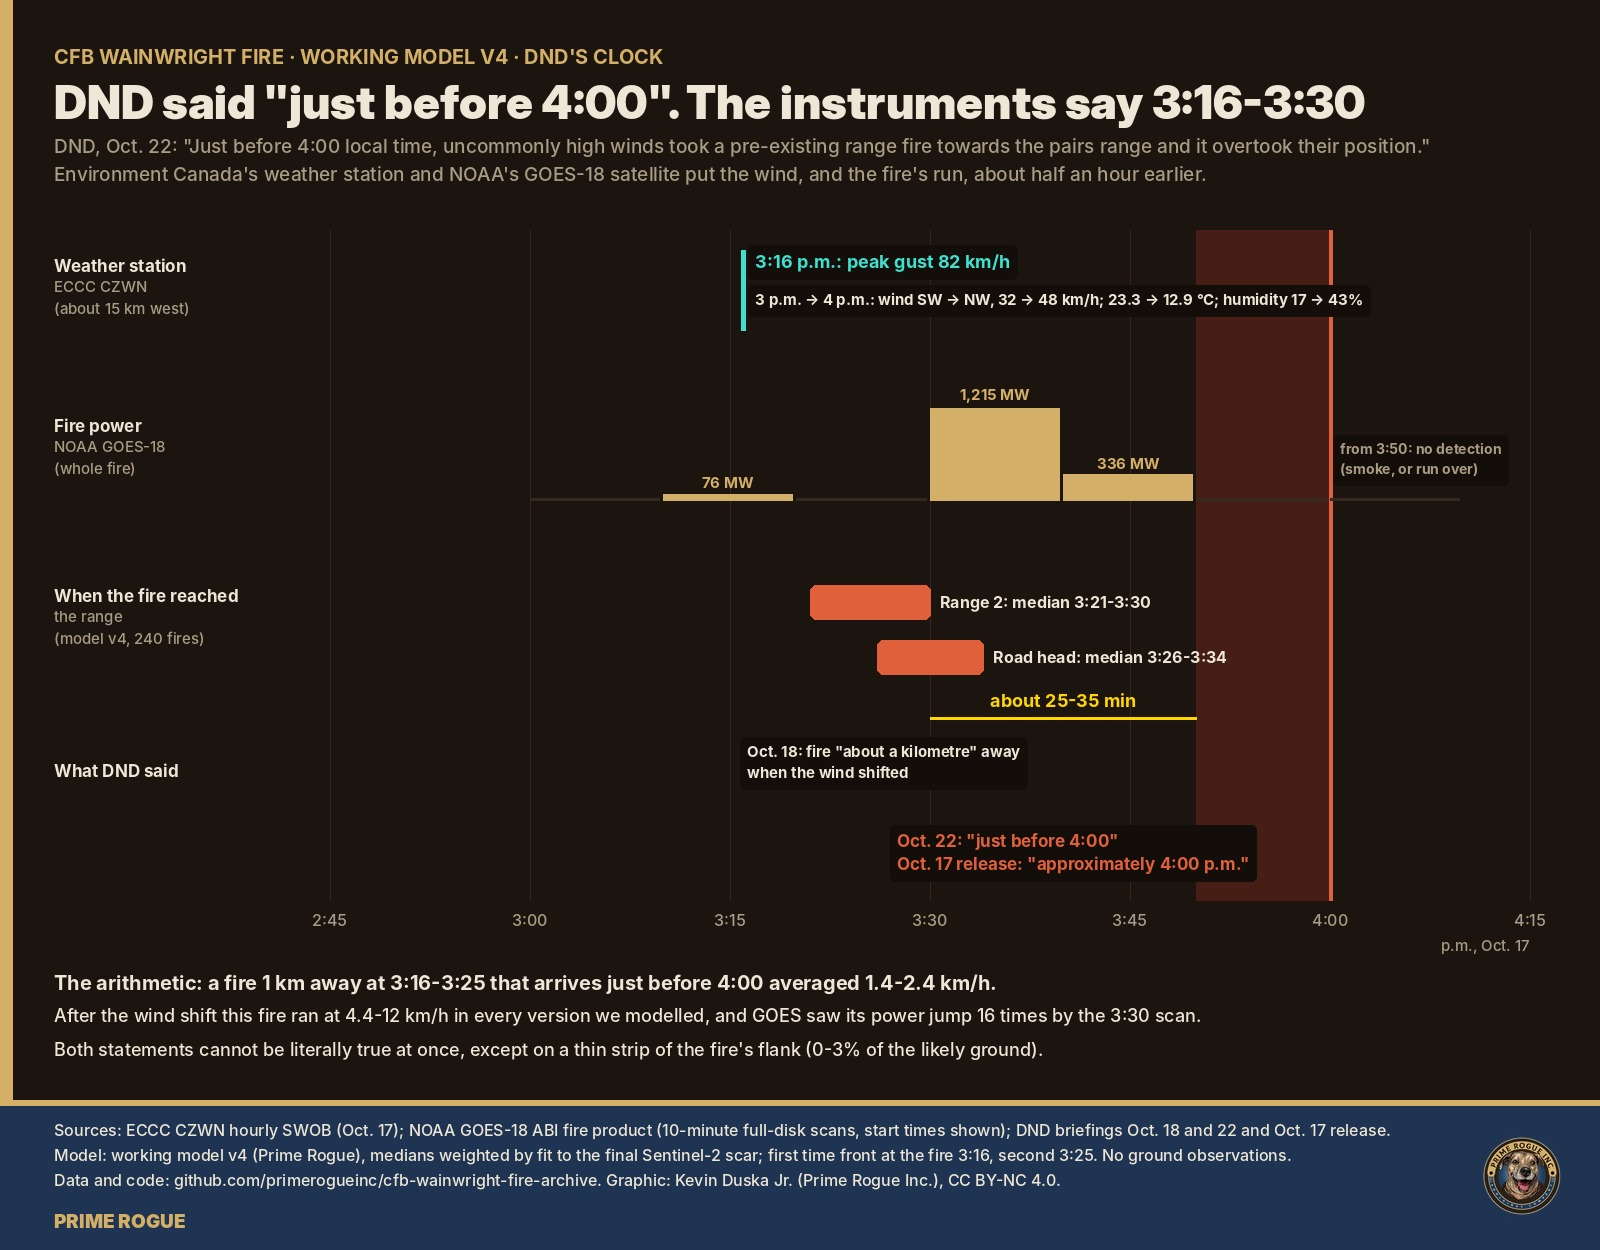
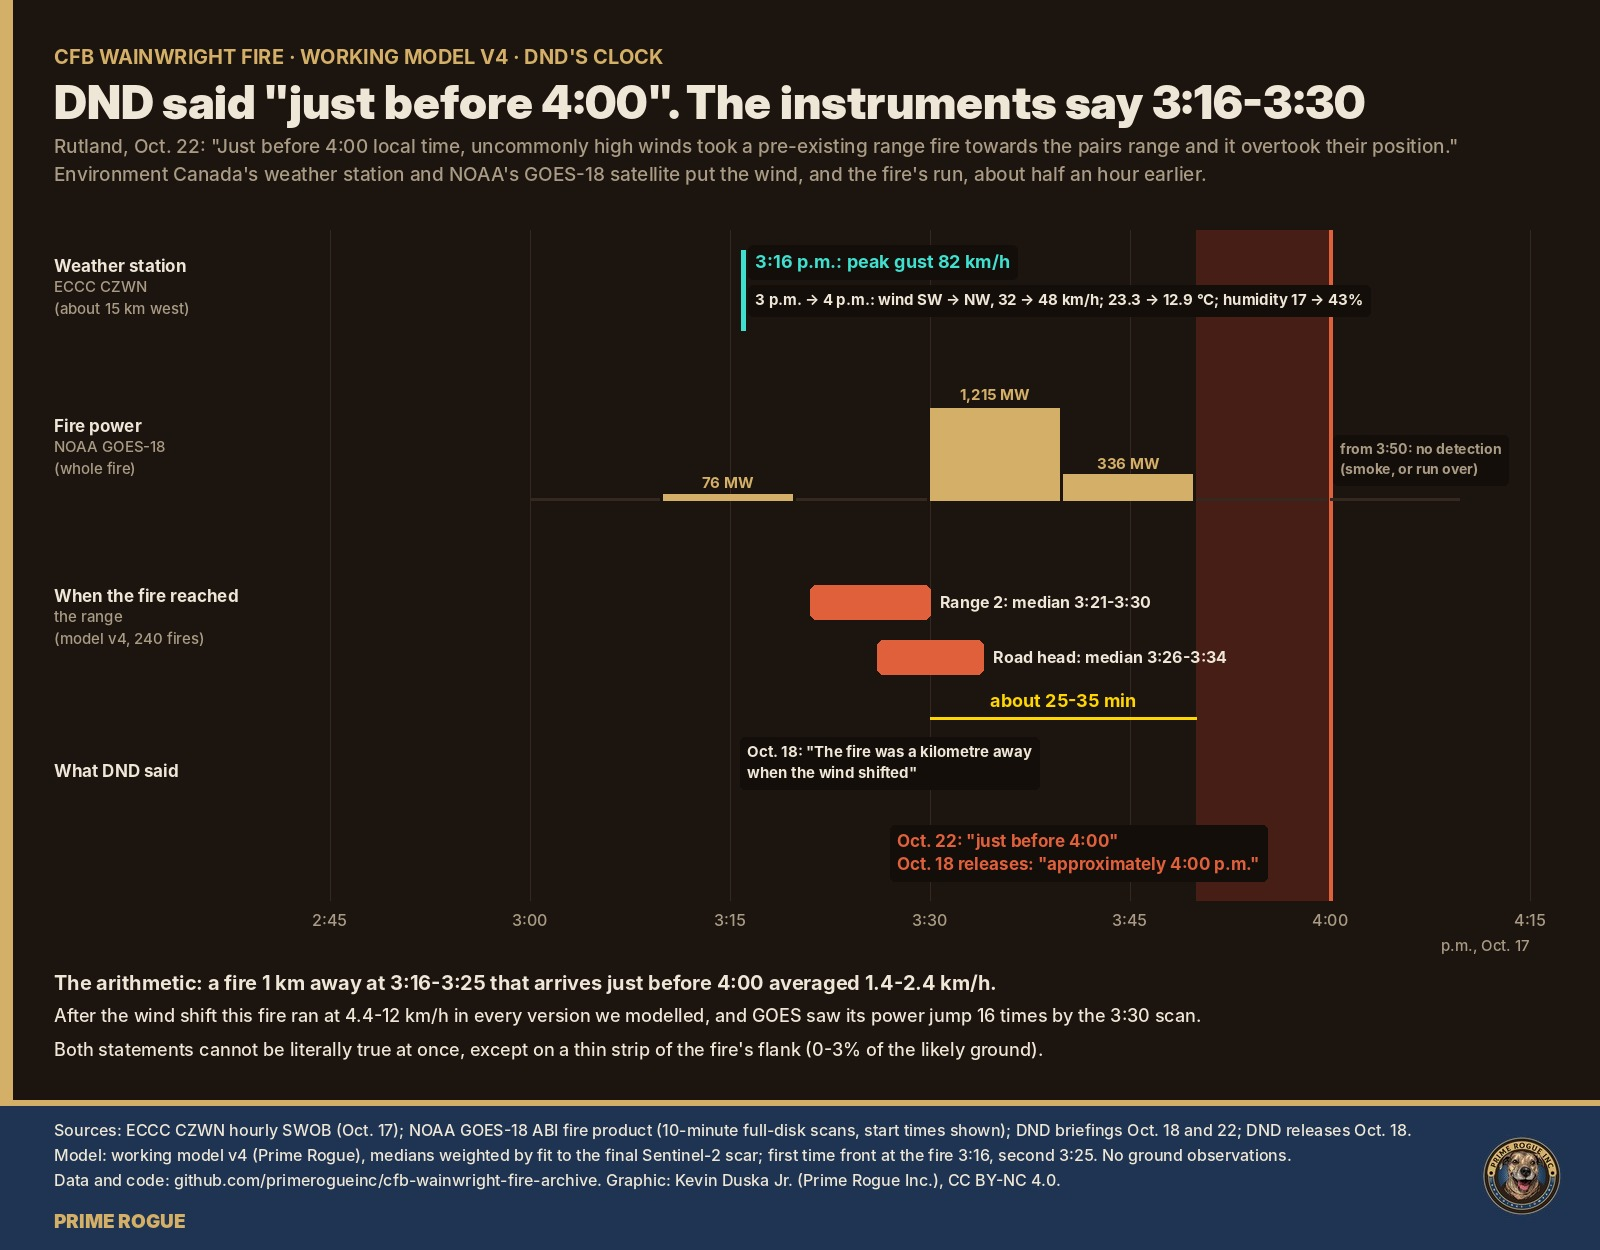
Working model v4: fact-check corrections (quotes, dates, attributions) in notes, ACH and graphics
Claude-Session: https://claude.ai/code/session_012q8DP5dH322QPmsftUvE6c

diff --git a/scripts/maps/g34_dnd_clock.py b/scripts/maps/g34_dnd_clock.py
@@ -5,7 +5,7 @@ from v4fig import *
 W, H = 1600, 1250
 im, d = canvas(W, H, "CFB WAINWRIGHT FIRE · WORKING MODEL V4 · DND'S CLOCK",
                "DND said \"just before 4:00\". The instruments say 3:16-3:30",
-               "DND, Oct. 22: \"Just before 4:00 local time, uncommonly high winds took a pre-existing range fire towards the pairs range and it overtook their position.\"\n"
+               "Rutland, Oct. 22: \"Just before 4:00 local time, uncommonly high winds took a pre-existing range fire towards the pairs range and it overtook their position.\"\n"
                "Environment Canada's weather station and NOAA's GOES-18 satellite put the wind, and the fire's run, about half an hour earlier.")
 X0, X1, T0, T1 = 330, W - 70, 14 * 60 + 45, 16 * 60 + 15
 tx = lambda h, m: X0 + (h * 60 + m - T0) / (T1 - T0) * (X1 - X0)
@@ -37,8 +37,8 @@ for nm, a, b, y in (("Range 2", (15, 21), (15, 30), 585), ("Road head", (15, 26)
     xa_, xb_ = tx(*a), tx(*b); d.rounded_rectangle([xa_, y, xb_, y + 34], radius=6, fill=RED)
     d.text((xb_ + 10, y + 17), f"{nm}: median {a[0]-12}:{a[1]:02d}-{b[0]-12}:{b[1]:02d}", font=B(16), fill=CREAM, anchor="lm")
 # DND statements
-label(d, (tx(15, 16) + 4, 742), "Oct. 18: fire \"about a kilometre\" away\nwhen the wind shifted", col=CREAM, size=15)
-label(d, (tx(15, 50) - 300, 830), "Oct. 22: \"just before 4:00\"\nOct. 17 release: \"approximately 4:00 p.m.\"", col=RED, size=17)
+label(d, (tx(15, 16) + 4, 742), "Oct. 18: \"The fire was a kilometre away\nwhen the wind shifted\"", col=CREAM, size=15)
+label(d, (tx(15, 50) - 300, 830), "Oct. 22: \"just before 4:00\"\nOct. 18 releases: \"approximately 4:00 p.m.\"", col=RED, size=17)
 d.text(((tx(15, 30) + tx(15, 50)) / 2, 700), "about 25-35 min", font=B(18), fill=YEL, anchor="mm")
 d.line([(tx(15, 30), 718), (tx(15, 50), 718)], fill=YEL, width=3)
 # bottom text
@@ -47,7 +47,7 @@ for l, f, c in (("The arithmetic: a fire 1 km away at 3:16-3:25 that arrives jus
                 ("After the wind shift this fire ran at 4.4-12 km/h in every version we modelled, and GOES saw its power jump 16 times by the 3:30 scan.", M(18), CREAM),
                 ("Both statements cannot be literally true at once, except on a thin strip of the fire's flank (0-3% of the likely ground).", M(18), CREAM)):
     d.text((54, y), l, font=f, fill=c); y += 34
-footer(im, ["Sources: ECCC CZWN hourly SWOB (Oct. 17); NOAA GOES-18 ABI fire product (10-minute full-disk scans, start times shown); DND briefings Oct. 18 and 22 and Oct. 17 release.",
+footer(im, ["Sources: ECCC CZWN hourly SWOB (Oct. 17); NOAA GOES-18 ABI fire product (10-minute full-disk scans, start times shown); DND briefings Oct. 18 and 22; DND releases Oct. 18.",
             "Model: working model v4 (Prime Rogue), medians weighted by fit to the final Sentinel-2 scar; first time front at the fire 3:16, second 3:25. No ground observations.",
             SRC], fh=150)
 im.convert("RGB").save(OUTD + "cfb-wainwright-dnd-clock.jpg", quality=92); print("ok")

diff --git a/scripts/maps/g32_ach.py b/scripts/maps/g32_ach.py
@@ -9,10 +9,10 @@ TXT = {"CC": "++", "C": "+", "N": "", "I": "-", "II": "--"}
 SHORT1 = {"H0": "Not really slow\n(measurement)", "H1": "Firefighting\nheld it", "H1b": "Boundary guards\nor roads (PDA 2)", "H2": "Patchy ground\n(10 m+)",
           "H2b": "Fine-scale fuel\n(grazing, craters)", "H3": "Grass still\ngreen", "H4": "Damper fuel,\nlighter wind"}
 SHORT2 = {"L1": "Range 2 / road head\nabout 3:20-3:35", "L2": "Further SE, 2-3 km\nabout 3:40-3:55", "L3": "On the flank, both\nstatements literal", "L4": "Front reached the\nfire about 3:45"}
-EV1 = ["Speed re-measured: 0.33-0.52 km/h", "Fire energy: burning 0.2-0.4 km2/h", "No barrier ahead of the head", "DND: no direct suppression in PDA 2",
-       "DND: stayed within PDA 2", "No guard lines visible (10-20 m)", "Morning path: no bare/old-burn/gaps", "Morning path not greener",
+EV1 = ["Speed re-measured: 0.33-0.52 km/h", "Fire energy: burning 0.2-0.4 km2/h", "No barrier ahead of the head", "Provost Marshal: suppression restricted",
+       "Provost Marshal: stayed in PDA 2", "No guard lines visible (10-20 m)", "Morning path: no bare/old-burn/gaps", "Morning path not greener",
        "Curing would need to be ~57%", "Station: FWI 30.8 Extreme, RH 16-23%", "Moisture/wind: big stretch needed", "Same grass ran at full speed after", "Lower severity before the shift"]
-EV2 = ["DND Oct. 18: about 1 km away", "DND Oct. 22: just before 4:00", "DND Oct. 17: about 4:00 p.m.", "Station front 3:16 (fire 3:16-3:25)", "GOES: run in full force by 3:30",
+EV2 = ["Rutland Oct. 18: a km away at the shift", "Rutland Oct. 22: just before 4:00", "DND releases Oct. 18: about 4 p.m.", "Station front 3:16 (fire 3:16-3:25)", "GOES: run in full force by 3:30",
        "Model: Range 2 3:21-3:30, road head 3:26-3:34", "Model: 'both true' ground 0-3%", "Part 2: '1 km' lands on Range 2 area", "Commander: fire suddenly on top", "Terrain: rise hides the fire"]
 
 
@@ -50,5 +50,5 @@ for l in ["Caution: an explanation our data cannot test is never contradicted. '
           "question partly for that reason; DND's answer on grazing, or sub-metre imagery, could rule it in or out. Ratings are our judgements."]:
     d.text((54, y), l, font=M(17), fill=MUTED); y += 26
 footer(im, ["Method: Heuer (1999), Psychology of Intelligence Analysis, ch. 8. Ratings, credibility and sources for every cell: model_v4/ach/ in the archive (ach.py).",
-            "Working model v4: 240 post-front fires; Sentinel-2 and Landsat 8 (Oct. 4-24); VIIRS, GOES-18; ECCC and CWFIS weather; DND briefings Oct. 17, 18 and 22.", SRC], fh=145)
+            "Working model v4: 240 post-front fires; Sentinel-2 and Landsat 8 (Oct. 4-24); VIIRS, GOES-18; ECCC and CWFIS weather; DND releases and briefings Oct. 18 and 22.", SRC], fh=145)
 im.convert("RGB").save(OUTD + "cfb-wainwright-competing-hypotheses.jpg", quality=92); print("ok", y)

diff --git a/scripts/authentic_stoic_alternative_hypothesis/model_v4/ach.py b/scripts/authentic_stoic_alternative_hypothesis/model_v4/ach.py
@@ -27,9 +27,9 @@ Q1 = dict(
          dict(H0="II", H1="C", H1b="C", H2="C", H2b="C", H3="C", H4="C")),
         ("No water or bare ground ahead of the head for 2.9 km (head not stalled at Peterson Pond)", "pond_stall.json", "high",
          dict(H0="I", H1="N", H1b="N", H2="I", H2b="N", H3="N", H4="N")),
-        ("DND, Oct. 22: PDA 2 'restricted the firefighters ability to conduct direct suppressive operations'; monitored all day", "dnd_briefing_2026-10-22_transcript.txt", "medium",
+        ("Provost Marshal, Oct. 22: PDA 2 'restricted the firefighters ability to conduct direct suppressive operations'; monitored all day", "dnd_briefing_2026-10-22_transcript.txt", "medium",
          dict(H0="N", H1="II", H1b="N", H2="N", H2b="N", H3="N", H4="N")),
-        ("DND, Oct. 22: the fire 'initially remained within permanent danger area 2'", "dnd_briefing_2026-10-22_transcript.txt", "medium",
+        ("Provost Marshal, Oct. 22: the fire 'remained within Permanent Danger Area 2'", "dnd_briefing_2026-10-22_transcript.txt", "medium",
          dict(H0="N", H1="N", H1b="C", H2="N", H2b="C", H3="N", H4="N")),
         ("No unmapped straight edge with a guard signature (bare strip) before or after the fire at 10-20 m", "fireguards_summary.json", "medium",
          dict(H0="N", H1="I", H1b="I", H2="N", H2b="N", H3="N", H4="N")),
@@ -57,11 +57,11 @@ Q2 = dict(
          "L3": "On the fire's flank (strip south-east of the road head or by the western lake): both statements literal",
          "L4": "The front reached the fire much later than the station (about 3:45), so Range 2 burned just before 4:00"},
     ev=[
-        ("Rutland, Oct. 18: fire about a kilometre away when the wind shifted", "part 7; Oct. 18 briefing", "medium",
+        ("Rutland, Oct. 18: 'The fire was a kilometre away when the wind shifted'", "part 7; Oct. 18 briefing", "medium",
          dict(L1="C", L2="I", L3="C", L4="C")),
         ("Rutland, Oct. 22: overtook the pairs range 'just before 4:00'", "dnd_briefing_2026-10-22_transcript.txt", "medium",
          dict(L1="I", L2="C", L3="C", L4="C")),
-        ("DND release, Oct. 17: 'approximately 4:00 p.m.'", "part7_briefing_check/ABOUT.md", "low",
+        ("DND releases, Oct. 18: fire ignited / incident at 'approximately 4:00 p.m.'", "part7_briefing_check/ABOUT.md", "low",
          dict(L1="I", L2="C", L3="C", L4="C")),
         ("CZWN front 3:16 p.m., 82 km/h gust; station about 15 km west (front at the fire 3:16-3:25)", "data/weather_exports; authentic-stoic-alternative-hypothesis/ABOUT.md", "high",
          dict(L1="C", L2="C", L3="C", L4="II")),

diff --git a/scripts/maps/g27_dnd_timing.py b/scripts/maps/g27_dnd_timing.py
@@ -28,8 +28,8 @@ def panel(data):
 left = panel(P); right = panel(np.where((D >= 600) & (D <= 1400), P, np.nan))
 Wc, Hc = 1600, 1100
 im, d = canvas(Wc, Hc, "CFB WAINWRIGHT FIRE · WORKING MODEL V4 · DND TIMELINE TEST",
-               "\"About a kilometre away\" and \"just before 4:00\"",
-               "DND, Oct. 18: the fire was about a kilometre away when the wind shifted. DND, Oct. 22: it overtook the pairs range just before 4:00 p.m.\n"
+               "\"A kilometre away\" and \"just before 4:00\"",
+               "Rutland, Oct. 18: \"The fire was a kilometre away when the wind shifted.\" Rutland, Oct. 22: it overtook the pairs range just before 4:00 p.m.\n"
                "Shading: share of 120 modelled fires (weighted by fit to the final burn scar) reaching each spot in that window.")
 y0 = 205
 for i, (pnl, t) in enumerate(((left, "Where the fire was, 3:45-4:00 p.m."), (right, "...and about 1 km from the fire at 3:16 p.m."))):

diff --git a/data/authentic-stoic-stress-test/model_v4/ABOUT.md b/data/authentic-stoic-stress-test/model_v4/ABOUT.md
@@ -107,12 +107,12 @@ Suppression classes from Alexander, Heathcott & Schwanke (2013), *Fire behaviour
 | Fire "initially remained within permanent danger area 2", "monitored throughout the day by both range control and the base fire hall" | Slow, unsuppressed fire, no containment lines | Consistent |
 | "A subsequent change in wind direction and velocity significantly increased the fire's intensity and rate of speed" | Front at CZWN 3:16 p.m., 82 km/h gust; GOES fire power ×16 by 3:30 | Consistent |
 | It "crossed the base fireguard and burned beyond the training base" | Scar's straight east edge along the boundary road, with a lobe beyond it | Consistent |
-| Fire about a kilometre away when the wind shifted (Oct. 18) **and** overtook the pairs range "just before 4:00" (Oct. 22; DND's Oct. 17 release said "approximately 4:00 p.m.") | See below (`overtaken_time.json`, `maps/`) | **Hard to reconcile on the model** |
+| Fire about a kilometre away when the wind shifted (Oct. 18) **and** overtook the pairs range "just before 4:00" (Oct. 22; DND's Oct. 18 releases said "approximately 4:00 p.m.") | See below (`overtaken_time.json`, `maps/`) | **Hard to reconcile on the model** |
 | CFB Wainwright standing orders para. 342: units firing in high-risk months "should plan to conduct early morning shoots" (Rutland, Oct. 22: "a guideline") | Start window 4-6:30 a.m. | Suggestive only |
 
 **"About a kilometre" and "just before 4:00".** On our timing the fire reaches ground about a kilometre from its 3:16 edge in the 3:20s to 3:30s, not just before 4:00. Weighted by fit to the scar, it reaches the Range 2 point at a median 3:21 p.m. (0% of fires in 3:45-4:00) and the road head (1.05-1.11 km from the 3:16 edge) at 3:26 (36% in 3:30-3:45, 4% in 3:45-4:00); 84% of the likely ground (part 2) burns by 3:30. Of the burned ground 600-1,400 m from the fire's edge at 3:16, about 6% is reached 3:45-4:00. Both statements fit together best for a thin strip south-east of the road head on the fire's flank, or a patch by the western lake, reached in 10-30% of fires (`maps/dnd_timing_test.png`, `maps_truthful.py`; branded: `data/graphics_published/oct25_model_v4/`).
 
-Caveats: the model times the front from the CZWN station, about 15 km west of the fire. If the front reached the fire at about 3:25 rather than 3:16 (as allowed for in part 1), every post-front time moves about 9 minutes later (Range 2 about 3:30, road head about 3:35), still well before 4:00; GOES-18 shows the run in full force by 3:30. There are no ground observations. DND's "approximately 4:00 p.m." on Oct. 17 may be a reporting time. Likeliest readings: "just before 4:00" is approximate and the event was in the 3:20s-3:30s (our location is unchanged), or "about a kilometre" was approximate and the pairs range was further away.
+Caveats: the model times the front from the CZWN station, about 15 km west of the fire. If the front reached the fire at about 3:25 rather than 3:16 (as allowed for in part 1), every post-front time moves about 9 minutes later (Range 2 about 3:30, road head about 3:35), still well before 4:00; GOES-18 shows the run in full force by 3:30. There are no ground observations. DND's "approximately 4:00 p.m." in its Oct. 18 releases may be a reporting time. Likeliest readings: "just before 4:00" is approximate and the event was in the 3:20s-3:30s (our location is unchanged), or "about a kilometre" was approximate and the pairs range was further away.
 
 ### 9. The full ensemble: every variation since part 1 (`ensemble_all.csv`, `ensemble_summary.json`)
 
@@ -149,8 +149,8 @@ Analysis of competing hypotheses after Heuer (1999, *Psychology of Intelligence 
 | Head advance re-measured 0.33-0.52 km/h allowing for VIIRS pixel size | high | I | C | C | C | C | C | C |
 | Fire energy (VIIRS FRP 75 MW) implies 0.2-0.4 km2/h burned vs 2.7 km2/h at the standard rate | medium | II | C | C | C | C | C | C |
 | No water or bare ground ahead of the head for 2.9 km (head not stalled at Peterson Pond) | high | I | N | N | I | N | N | N |
-| DND, Oct. 22: PDA 2 'restricted the firefighters ability to conduct direct suppressive operations'; monitored all day | medium | N | II | N | N | N | N | N |
-| DND, Oct. 22: the fire 'initially remained within permanent danger area 2' | medium | N | N | C | N | C | N | N |
+| Provost Marshal, Oct. 22: PDA 2 'restricted the firefighters ability to conduct direct suppressive operations'; monitored all day | medium | N | II | N | N | N | N | N |
+| Provost Marshal, Oct. 22: the fire 'remained within Permanent Danger Area 2' | medium | N | N | C | N | C | N | N |
 | No unmapped straight edge with a guard signature (bare strip) before or after the fire at 10-20 m | medium | N | I | I | N | N | N | N |
 | Morning path: 0% bare, 0% old burn, 0% patchy 100 m blocks (surroundings 5 / 8 / 20%) | high | N | N | N | II | N | N | N |
 | Morning path not greener than afternoon path (NDVI 0.42 vs 0.44) | high | N | N | N | N | N | I | N |
@@ -169,9 +169,9 @@ Least contradicted first: H2b > H1b > H4 > H1 > H2 > H3 > H0.
 
 | Evidence | Credibility | L1 | L2 | L3 | L4 |
 |---|---|---|---|---|---|
-| Rutland, Oct. 18: fire about a kilometre away when the wind shifted | medium | C | I | C | C |
+| Rutland, Oct. 18: 'The fire was a kilometre away when the wind shifted' | medium | C | I | C | C |
 | Rutland, Oct. 22: overtook the pairs range 'just before 4:00' | medium | I | C | C | C |
-| DND release, Oct. 17: 'approximately 4:00 p.m.' | low | I | C | C | C |
+| DND releases, Oct. 18: fire ignited / incident at 'approximately 4:00 p.m.' | low | I | C | C | C |
 | CZWN front 3:16 p.m., 82 km/h gust; station about 15 km west (front at the fire 3:16-3:25) | high | C | C | C | II |
 | GOES-18 fire power 76 MW (3:10) -> 1,215 MW (3:30); 336 MW at 3:40 in the southern pixel only | medium | C | C | N | II |
 | Model (240 fires): Range 2 median 3:21-3:30, road head 3:26-3:34; 0-9% of fires reach either 3:45-4:00 | medium | C | N | I | I |
@@ -201,3 +201,13 @@ See `../model_v3/severity_oct24/ABOUT.md`: the fire burned harder after the shif
 - Smoke is modelled, not observed.
 - DND has not confirmed where C Company was. "Range 2 area / road head" remains an inference (low to moderate confidence, part 2).
 - 40 m model grid; 10-30 m imagery. Features smaller than that (tracks, craters, pads) are not resolved.
+
+
+## Fact-check corrections (Oct. 25)
+
+Checked against published sources (DND releases, Provost Marshal statement, Global News, CP, StrathmoreNow, CBC):
+- Rutland's Oct. 18 words were "The fire was a kilometre away when the wind shifted. It is not normal for a fire to move a kilometre in 30 to 60 seconds." "About a kilometre" is reporters' paraphrase; our readings of the distance (0.6-1.5 km etc.) are unchanged.
+- The "approximately 4:00 p.m." releases are dated Oct. 18, not Oct. 17, and say a fire "ignited" then.
+- The permanent danger area 2 and monitoring statements are the Canadian Forces Provost Marshal's (Brig.-Gen. Vanessa Hanrahan), not Rutland's; the written statement says "remained", not "initially remained".
+- Alexander et al. (2013) classes: "easy suppression" (< 1 km/h), "challenging suppression" (1-4.9), "beyond control" (>= 5). Lethbridge winds averaged 69 km/h.
+- "Extreme" is the CWFIS danger class.

diff --git a/data/authentic-stoic-stress-test/model_v4/ach/ach.md b/data/authentic-stoic-stress-test/model_v4/ach/ach.md
@@ -5,8 +5,8 @@
 | Head advance re-measured 0.33-0.52 km/h allowing for VIIRS pixel size | high | I | C | C | C | C | C | C |
 | Fire energy (VIIRS FRP 75 MW) implies 0.2-0.4 km2/h burned vs 2.7 km2/h at the standard rate | medium | II | C | C | C | C | C | C |
 | No water or bare ground ahead of the head for 2.9 km (head not stalled at Peterson Pond) | high | I | N | N | I | N | N | N |
-| DND, Oct. 22: PDA 2 'restricted the firefighters ability to conduct direct suppressive operations'; monitored all day | medium | N | II | N | N | N | N | N |
-| DND, Oct. 22: the fire 'initially remained within permanent danger area 2' | medium | N | N | C | N | C | N | N |
+| Provost Marshal, Oct. 22: PDA 2 'restricted the firefighters ability to conduct direct suppressive operations'; monitored all day | medium | N | II | N | N | N | N | N |
+| Provost Marshal, Oct. 22: the fire 'remained within Permanent Danger Area 2' | medium | N | N | C | N | C | N | N |
 | No unmapped straight edge with a guard signature (bare strip) before or after the fire at 10-20 m | medium | N | I | I | N | N | N | N |
 | Morning path: 0% bare, 0% old burn, 0% patchy 100 m blocks (surroundings 5 / 8 / 20%) | high | N | N | N | II | N | N | N |
 | Morning path not greener than afternoon path (NDVI 0.42 vs 0.44) | high | N | N | N | N | N | I | N |
@@ -25,9 +25,9 @@ Least contradicted first: H2b > H1b > H4 > H1 > H2 > H3 > H0.
 
 | Evidence | Credibility | L1 | L2 | L3 | L4 |
 |---|---|---|---|---|---|
-| Rutland, Oct. 18: fire about a kilometre away when the wind shifted | medium | C | I | C | C |
+| Rutland, Oct. 18: 'The fire was a kilometre away when the wind shifted' | medium | C | I | C | C |
 | Rutland, Oct. 22: overtook the pairs range 'just before 4:00' | medium | I | C | C | C |
-| DND release, Oct. 17: 'approximately 4:00 p.m.' | low | I | C | C | C |
+| DND releases, Oct. 18: fire ignited / incident at 'approximately 4:00 p.m.' | low | I | C | C | C |
 | CZWN front 3:16 p.m., 82 km/h gust; station about 15 km west (front at the fire 3:16-3:25) | high | C | C | C | II |
 | GOES-18 fire power 76 MW (3:10) -> 1,215 MW (3:30); 336 MW at 3:40 in the southern pixel only | medium | C | C | N | II |
 | Model (240 fires): Range 2 median 3:21-3:30, road head 3:26-3:34; 0-9% of fires reach either 3:45-4:00 | medium | C | N | I | I |
